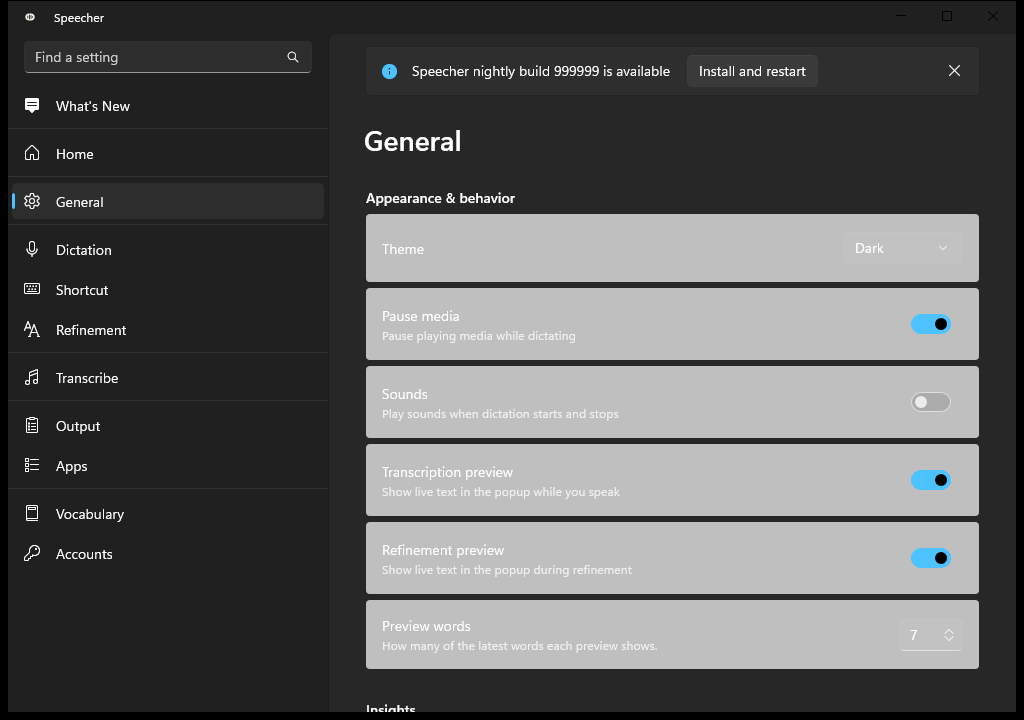
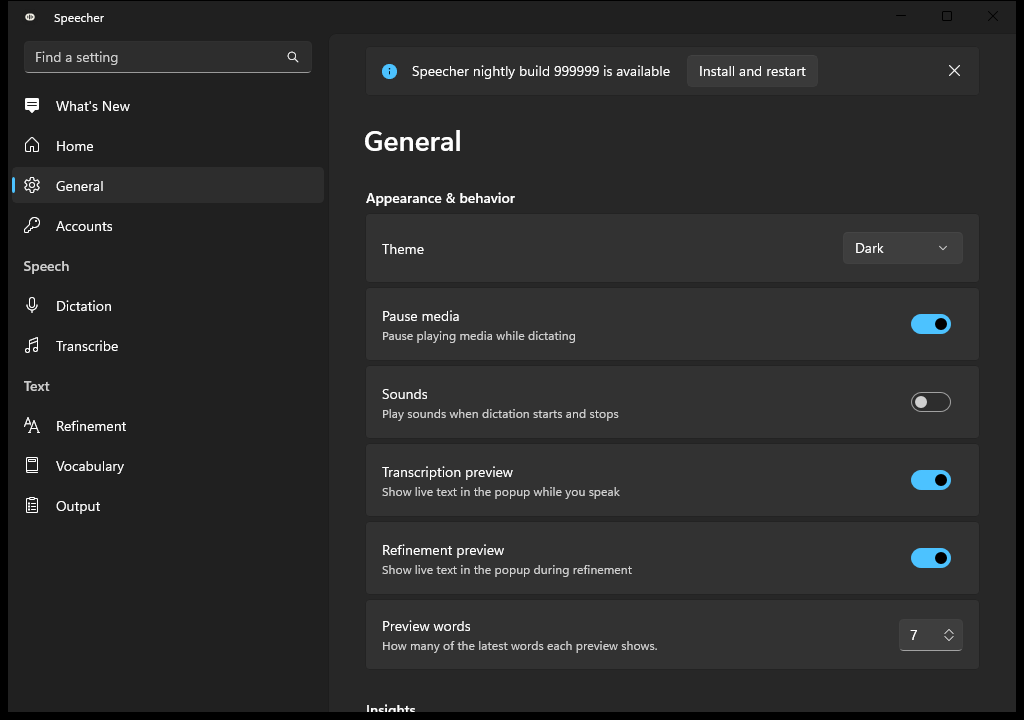
docs: settings navigation screenshots with titled sidebar groups

diff --git a/docs/img/settings-navigation/README.md b/docs/img/settings-navigation/README.md
@@ -1,26 +1,50 @@
 # One settings navigation on every platform
 
-Linux captures at 16f13291, offscreen with the KDE platform theme and Breeze in
-an isolated config (`SPEECHER_GRAB_PAGE=<page id>`). `local-localModels.png` is
-from a build with local speech on.
+The sidebar on every platform reads one arrangement from core: an untitled top
+group (Home, General, Accounts, with What's New first while pending or open),
+then Speech (Dictation, Local models, Transcribe) and Text (Refinement,
+Vocabulary, Output). Dictation leads with the Global Shortcut section; Output
+holds the app rules as sections.
 
-- `sidebar-separators.png`: the sidebar enlarged; a Breeze-drawn line between groups.
-- `sidebar-dark.png`: the same in Breeze Dark.
-- `sidebar-vs-systemsettings.png`: our sidebar beside KDE System Settings'.
-- `refinement.png`: model, effort and fast mode now on Refinement.
-- `shortcut.png`: the Global Shortcut recorder with Shortcut behavior under it.
-- `vocabulary-corrections.png`: Vocabulary's three views as tabs (`vocabulary:corrections`).
-- `whatsnew-1-pending.png`: What's New above Home while pending.
-- `local-localModels.png`: Local models in the Dictation group.
+## Linux
 
-Windows captures of the settings window at its normal size, with the update
-banner up and What's New pending, from a CI runner at 16f13291 plus a
-throwaway workflow change. The banner is a real offer: the updater read a
-local manifest (a newer nightly build) through `SPEECHER_UPDATE_MANIFEST_URL`,
-with automatic checks on and automatic install off, and the pending What's New
-version was set in the registry settings.
+Captured at 26323bc8, offscreen with the KDE platform theme and Breeze in an
+isolated config (`SPEECHER_GRAB_PAGE=<page id>`), from a build with local
+speech on, at the window's default size unless noted.
 
-- `windows-banner-home-light.png`, `windows-banner-general-light.png`: Home and
-  General in light mode.
-- `windows-banner-home-dark.png`, `windows-banner-general-dark.png`: the same in
-  dark mode.
+- `linux-sidebar-headers.png`: the sidebar enlarged; each group titled like
+  Kirigami's ListSectionHeader, a bold title and a Breeze-drawn line.
+- `linux-general-whatsnew-light.png`, `linux-general-whatsnew-dark.png`: What's
+  New pending, first in the top group.
+- `linux-general-light.png`, `linux-general-dark.png`: nothing pending.
+- `linux-sidebar-vs-systemsettings-light.png`,
+  `linux-sidebar-vs-systemsettings-dark.png`: our sidebar beside KDE System
+  Settings'.
+- `linux-dictation-light.png`, `linux-dictation-dark.png`: Dictation with the
+  Global Shortcut recorder and Shortcut behavior at the top.
+- `linux-output-light.png`: Output, whose app rules are now sections.
+- `linux-refinement.png`, `linux-vocabulary-corrections.png`,
+  `linux-local-models.png`: other panes at 1000×760.
+
+## Windows
+
+The settings window at its normal size on a CI runner at 26323bc8, with the
+dark-card fix from `fix/windows-dark-cards` applied for these captures. The
+update banner is a real offer: the updater read a local manifest (a newer
+nightly build) through `SPEECHER_UPDATE_MANIFEST_URL`, with automatic checks on
+and automatic install off; the pending What's New version was set in the
+registry settings.
+
+- `windows-banner-home-light.png`, `windows-banner-home-dark.png`
+- `windows-banner-general-light.png`, `windows-banner-general-dark.png`
+- `windows-dictation-light.png`, `windows-dictation-dark.png`: the recorder at
+  the top of Dictation.
+
+## macOS
+
+From the PR's CI at 26323bc8.
+
+- `macos-home.png`, `macos-general.png`: screen captures from the insights
+  evidence job, with the native Speech and Text sidebar sections.
+- `macos-dictation.png`: the setup E2E's backing-store grab of Dictation, with
+  the recorder at the top (the backing store leaves the sidebar blank).
